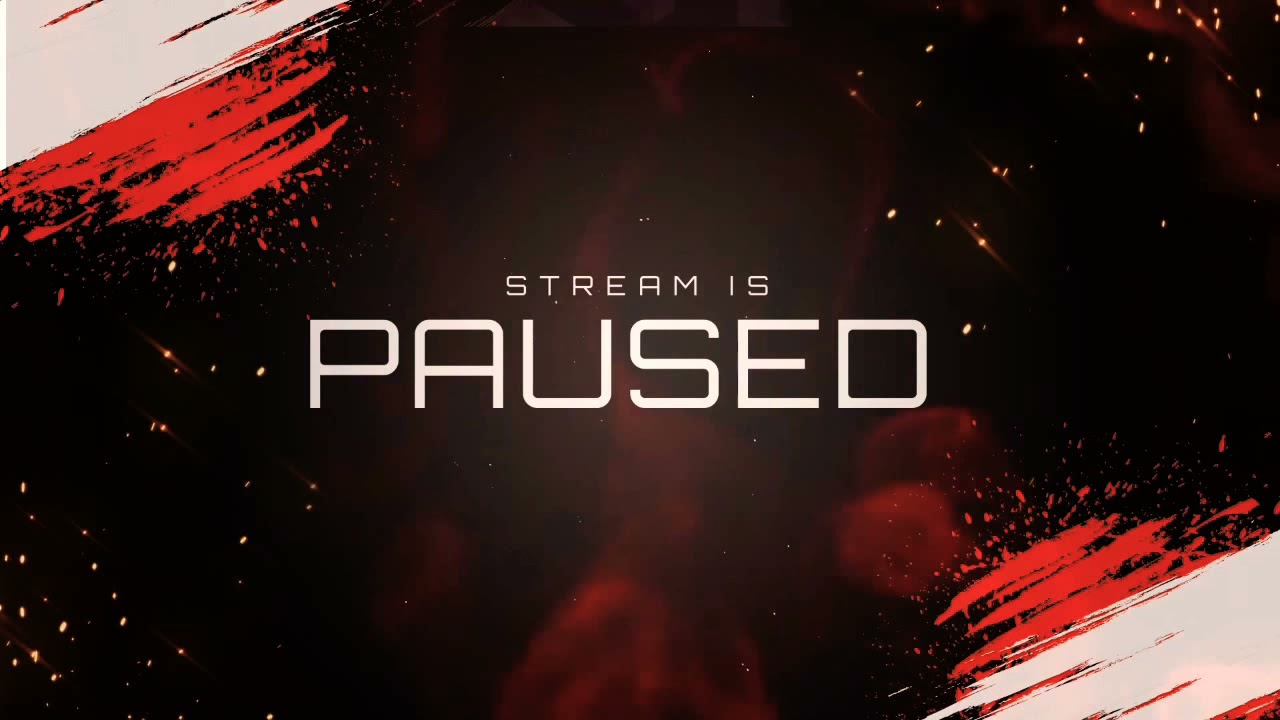
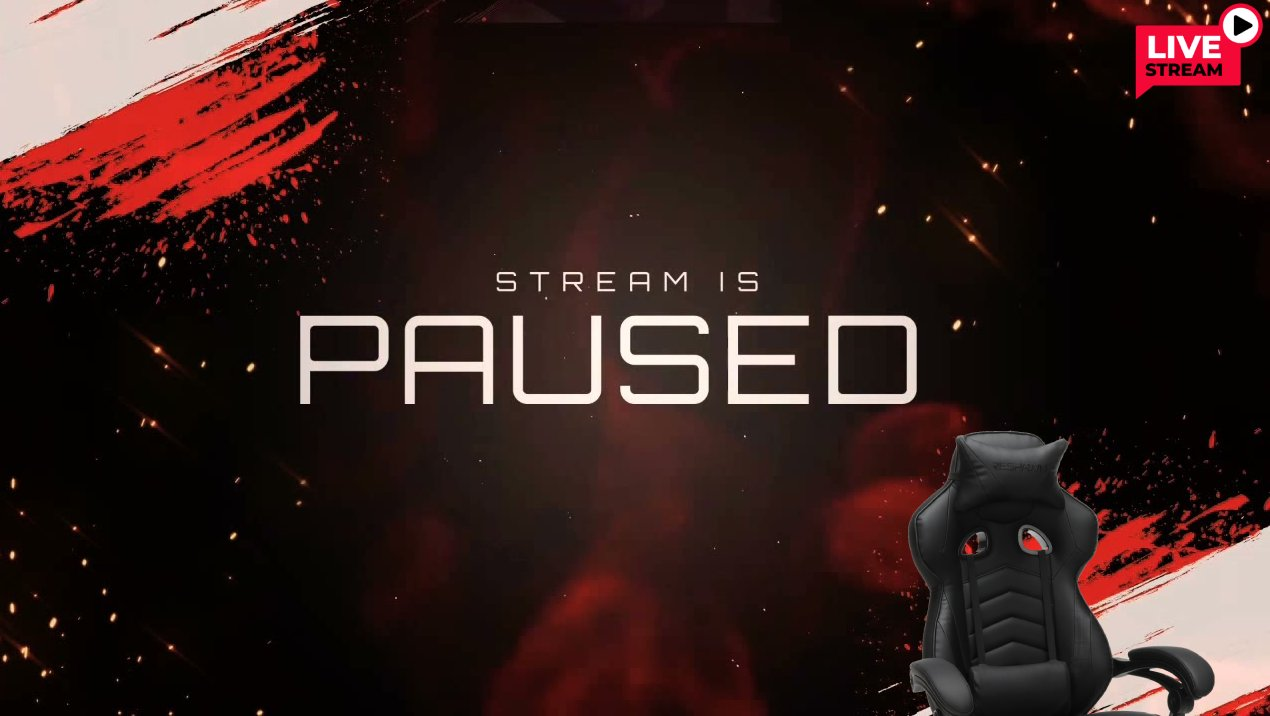
Adding background image with pause screen, live indicator, and gamer chair

diff --git a/client/src/components/exercise/lab8/components/ExerciseFrame.js b/client/src/components/exercise/lab8/components/ExerciseFrame.js
@@ -2,11 +2,13 @@
 /* eslint-disable require-jsdoc */
 
 import React from "react";
+import "../../../../assets/stylesheets/components/ExerciseFrame.scss";
 
 const ExerciseFrame = () => {
   return (
     <div className="exercise-frame tw-w-full tw-aspect-video">
-      <h1>Welcome to my stream </h1>
+      {/* will put stuff here */}
+      {/* right now the div contains a background image */}
     </div>
   );
 };

diff --git a/client/src/assets/stylesheets/components/ExerciseFrame.scss b/client/src/assets/stylesheets/components/ExerciseFrame.scss
@@ -1,3 +1,5 @@
 .exercise-frame {
-    background-image: url('../../images/lab8/stream_bg.jpeg');
+  background-image: url("../../images/lab8/stream_bg.jpeg");
+  background-size: contain;
+  background-repeat: no-repeat;
 }
